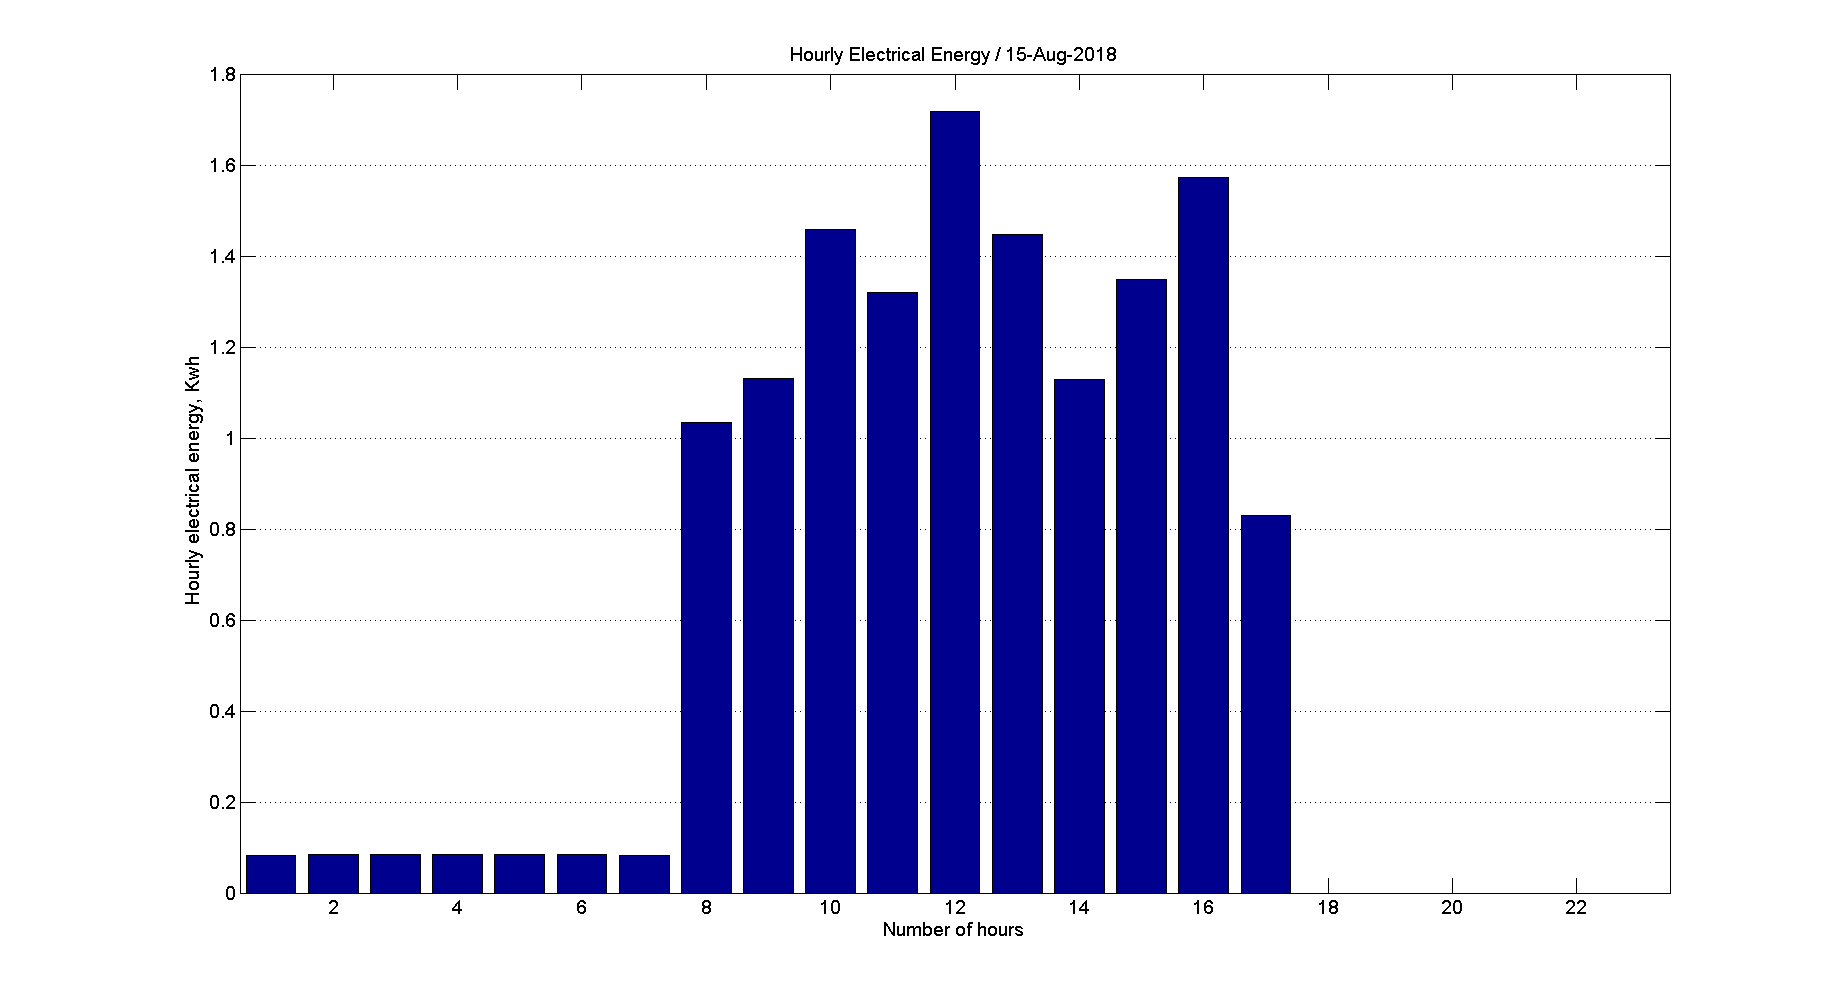
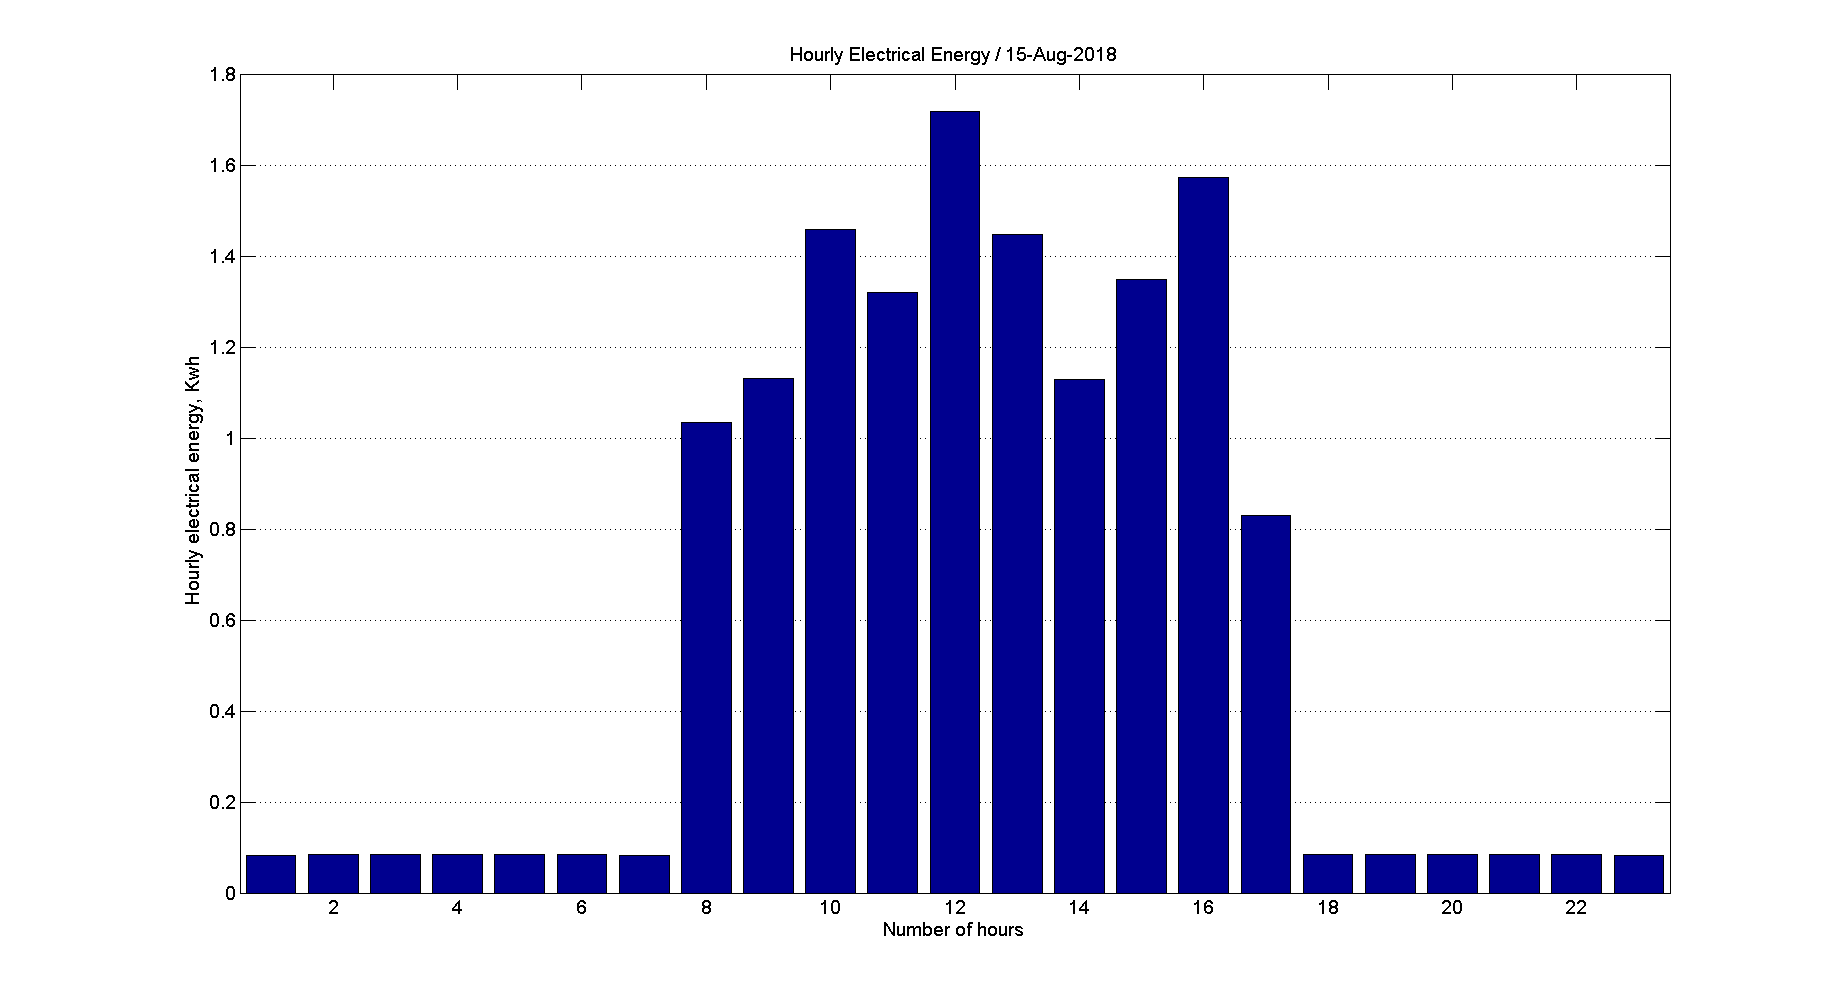
แก้ไขช่วงการคำนวณของวันที่ 15 ให้ตลอดวัน

Changed region(s): [[0.6797, 0.8345, 0.9268, 0.8963]]

diff --git a/R410A results/result15/energybar.m b/R410A results/result15/energybar.m
@@ -1,8 +1,8 @@
 function [dEnergy] = energybar(mat_file,datetext)
 
 load(mat_file)
-eng = EATNetKwh(1:1080);
-hourly_energy = max(reshape(eng-eng(1),60,18));
+eng = EATNetKwh;
+hourly_energy = max(reshape(eng-eng(1),60,24));
 dEnergy = diff(hourly_energy);
 t = round(hhminsec(1)*24)+1:round(hhminsec(1)*24)+length(dEnergy);
 bar(t,dEnergy)
